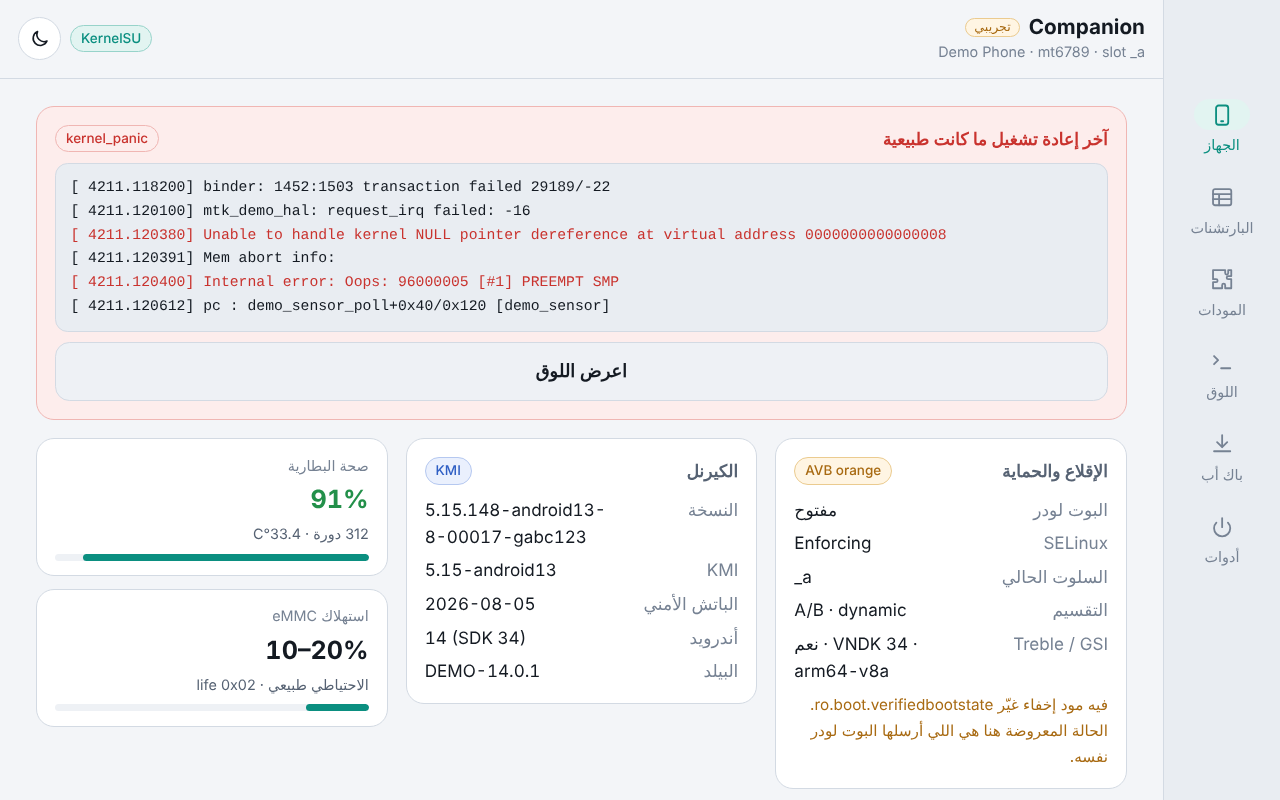
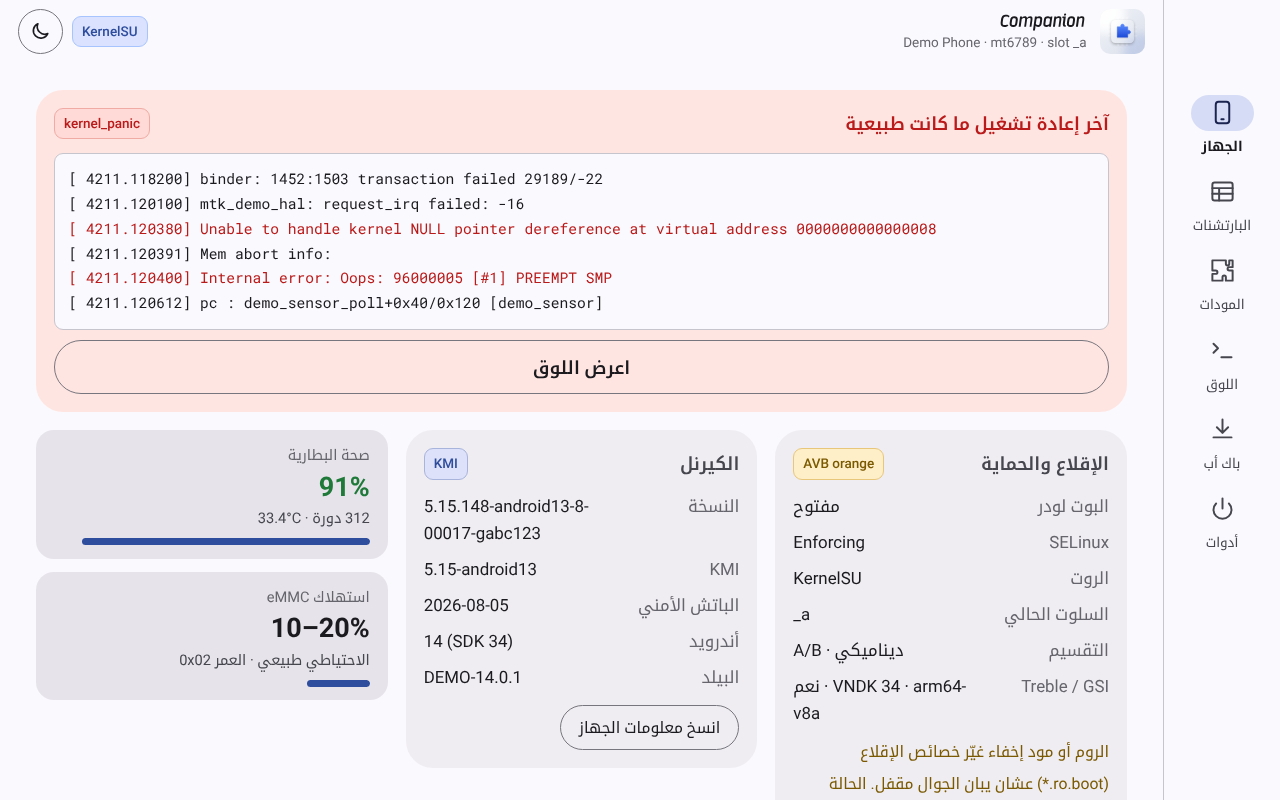
README and screenshots for the new look and the additions

diff --git a/README.ar.md b/README.ar.md
@@ -62,15 +62,17 @@
 
 | القسم | |
 |---|---|
-| 📱 **الجهاز** | حالة البوت لودر و AVB زي ما قالها البوت لودر نفسه، حتى لو مود إخفاء غيّر `ro.boot.verifiedbootstate` · الكيرنل و KMI ومستوى الحماية · صحة البطارية واستهلاك الذاكرة eMMC/UFS · المعالج والحرارة والرام لحظياً |
+| 📱 **الجهاز** | حالة البوت لودر و AVB زي ما قالها البوت لودر نفسه، حتى لو مود إخفاء غيّر `ro.boot.verifiedbootstate` · الكيرنل و KMI ومستوى الحماية · صحة البطارية واستهلاك الذاكرة eMMC/UFS · المعالج والحرارة والرام لحظياً · سطر ينبهك إذا البوت لودر يقول مقفول والروت موجود · مدير الروت الشغّال، وملفات مدير ثاني باقية إن وجدت · نسخ معلومات الجهاز كنص |
 | 🧯 **الصندوق الأسود** | إذا آخر إعادة تشغيل كانت بسبب كراش، يعرض لك لوق الإقلاع اللي قبل (pstore) مع أسطر الـ panic واضحة |
-| 🗂 **البارتشنات** | كل اللي في `by-name` بأحجامها وتصنيف أمانها (حرج، إقلاع، ممنوع)، وخريطة لمحتوى `super` |
-| 🧩 **المودات** | كل المودات المثبتة، ووين تتعارض: مودين يحطون نفس ملف النظام، أو مود يستبدل مجلد كامل فيخفي ملفات مود ثاني، أو نفس الخاصية بقيم مختلفة |
+| 🗂 **البارتشنات** | كل اللي في `by-name` بأحجامها وتصنيف أمانها (حرج، إقلاع، ممنوع)، وخريطة لمحتوى `super`. الأقراص الكاملة اللي يربطها أندرويد تحت `by-name` ما تنعرض، والرابط اللي ممكن يكون قرص كامل ما يدخل الباك أب |
+| 🧩 **المودات** | كل المودات المثبتة، ووين تتعارض: مودين يحطون نفس ملف النظام، أو مود يستبدل مجلد كامل فيخفي ملفات مود ثاني، أو نفس الخاصية بقيم مختلفة، أو مود يحذف (whiteout) ملف يحطه مود ثاني |
 | 📜 **اللوق** | الكيرنل و logcat لحظياً مع البحث والفلاتر. اضغط على أي سطر SELinux ويطلع لك سطر `sepolicy.rule` جاهز، أو اجمعها كلها مرة وحدة |
-| 💾 **النسخ الاحتياطي** | المهمة (IMEI والمعايرة وسلسلة الإقلاع) أو الإقلاع (السلوت الحالي) أو كامل (كل شي ما عدا userdata)، وكل نسخة معها `SHA256SUMS` و `backup-info.txt`، وتقدر تتحقق منها على الجوال |
+| 💾 **النسخ الاحتياطي** | المهمة (IMEI والمعايرة وسلسلة الإقلاع) أو الإقلاع (السلوت الحالي) أو كامل (كل شي ما عدا userdata)، وكل نسخة معها `SHA256SUMS` و `backup-info.txt`، والصورة ما تنحسب إلا إذا حجمها نفس حجم البارتشن، وكل صورة تنفحص مرة ثانية بعد الباك أب. المساحة الفاضية تبان قبل ما تبدأ، وتقدر تتحقق من أي نسخة على الجوال، و«كيف أسترجع» يعطيك الخطوات (الصفحة ما تسترجع شي بنفسها) |
 | 🛠 **أدوات** | إعادة التشغيل للـ bootloader أو fastbootd أو recovery أو EDL (كوالكوم)، وحزمة دعم فني تخفي الـ IMEI والسيريال وعناوين MAC، والوضع الليلي واللغة |
 
 عربي وإنجليزي حسب لغة الجوال، وليلي ونهاري حسب الجوال أو اختيارك.
+الصفحة معها خطوطها (Noto Kufi Arabic و Roboto و Roboto Mono برخصة SIL Open Font License)، فشكلها واحد على
+كل الرومات ونفس شكل Fastboot Studio في الويندوز والأندرويد.
 على التابلت تنتقل التبويبات لشريط جانبي وتتوزع البطاقات على الشاشة:
 
 <p align="center">

diff --git a/README.md b/README.md
@@ -61,15 +61,17 @@ install it from your root manager. Updates arrive in the root manager after that
 
 | Tab | |
 |---|---|
-| 📱 **Device** | Bootloader and AVB state as the bootloader reported it, even when a hiding module rewrote `ro.boot.verifiedbootstate` · kernel, KMI and security patch · battery health and eMMC/UFS wear · live CPU clocks, temperature and memory |
+| 📱 **Device** | Bootloader and AVB state as the bootloader reported it, even when a hiding module rewrote `ro.boot.verifiedbootstate` · kernel, KMI and security patch · battery health and eMMC/UFS wear · live CPU clocks, temperature and memory · a line when the bootloader says locked while root is present · the root manager that is running, and another one's leftover files · the details as text to copy |
 | 🧯 **Black box** | When the last restart was a crash, the previous boot's kernel log (pstore) with the panic lines picked out |
-| 🗂 **Partitions** | Everything under `by-name` with sizes and a safety tag (critical, boot, never), plus a map of what is inside `super` |
-| 🧩 **Modules** | Every installed module, and where they get in each other's way: two modules putting the same system file in place, one replacing a whole folder another adds to, or the same property set to different values |
+| 🗂 **Partitions** | Everything under `by-name` with sizes and a safety tag (critical, boot, never), plus a map of what is inside `super`. Whole disks that Android links under `by-name` are left out, and a link that may be one stays out of the backups |
+| 🧩 **Modules** | Every installed module, and where they get in each other's way: two modules putting the same system file in place, one replacing a whole folder another adds to, the same property set to different values, or one removing (whiteout) what another puts in place |
 | 📜 **Logs** | Live kernel log and logcat with search and filters. Tap an SELinux denial to get a ready `sepolicy.rule` line, or collect all of them at once |
-| 💾 **Backup** | Critical (IMEI, calibration, boot chain), boot (current slot) or full (everything but userdata), each with `SHA256SUMS` and `backup-info.txt`. Verify any backup on the phone |
+| 💾 **Backup** | Critical (IMEI, calibration, boot chain), boot (current slot) or full (everything but userdata), each with `SHA256SUMS` and `backup-info.txt`. An image counts only when it is as long as its partition, and every image is checked again after the backup. Free space is shown before you start; verify any backup on the phone; "How to restore" gives the steps (nothing is restored from the page) |
 | 🛠 **Tools** | Restart to bootloader, fastbootd, recovery or EDL (Qualcomm), a support bundle with IMEI, serial and MAC addresses masked, the theme and the language |
 
 Arabic and English, following the phone's language; day and night, following the phone or your choice.
+The page carries its own fonts (Noto Kufi Arabic, Roboto and Roboto Mono, under the SIL Open Font
+License), so it looks the same on every ROM and like Fastboot Studio on Windows and Android.
 On a tablet the tabs move to a side rail and the cards spread out:
 
 <p align="center">
